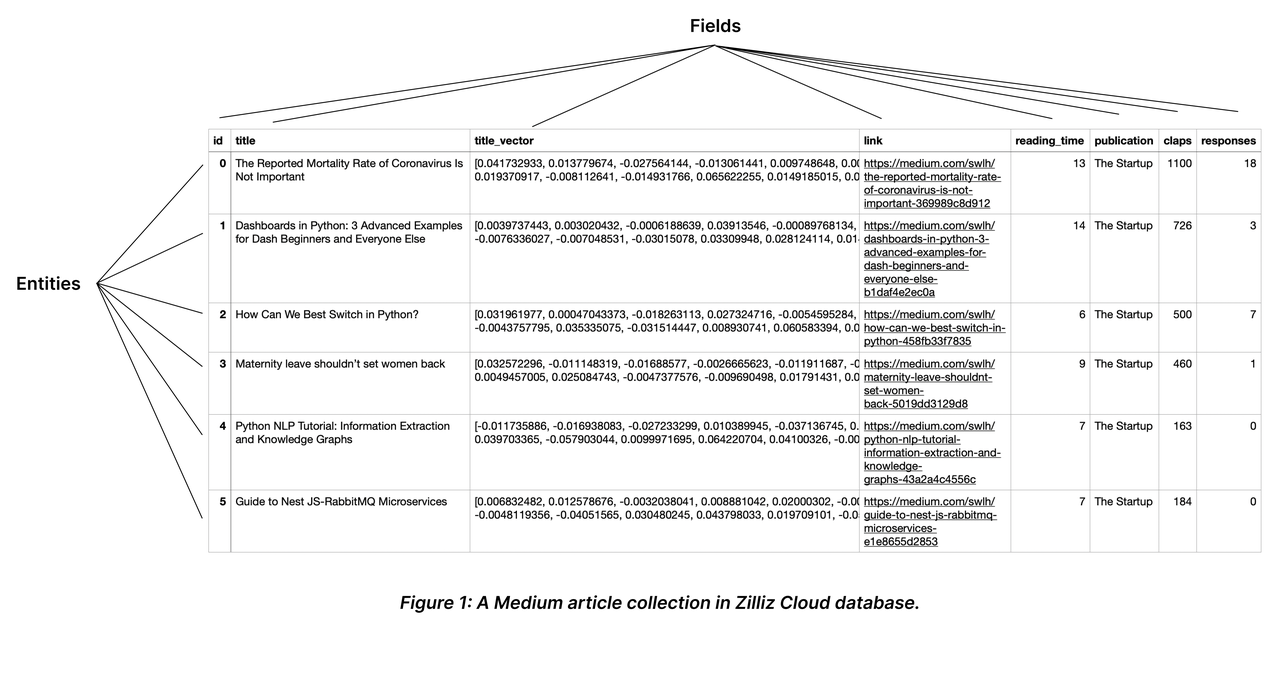
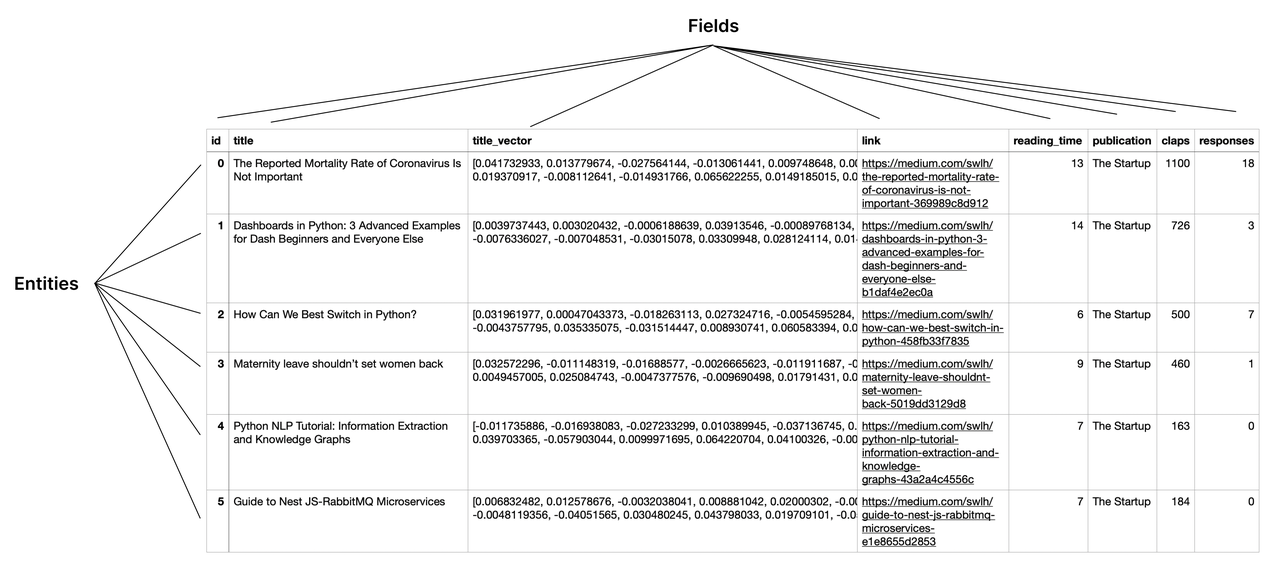
fixed tests, forgot file

diff --git a/tests/vdb/test_load.py b/tests/vdb/test_load.py
@@ -1,19 +1,20 @@
 import sys
 sys.path.append("packages/vdb/load")
-import vdb
+import vdb, time
 
 def test_vdb():
     args = {}
 
     db = vdb.VectorDB(args)
+    db.setup(drop=True)
     assert len(db.embed("hello world")) == 1024
 
-    db.setup(drop=True)
     assert len(db.vector_search("hello")) == 0
     
-    res = db.insert("Hello world")
+    db.insert("Hello world")
     db.insert("This is a test")
     db.insert("This is another test")
+    time.sleep(1)
 
     test = db.vector_search("test")
     assert len(test) == 3
@@ -23,11 +24,6 @@ def test_vdb():
     assert hello[0][1].find("Hello") != -1
 
     assert db.remove_by_substring("test") == 2
-
-
-
-
-
     
 
 

diff --git a/lessons/6-vdb.md b/lessons/6-vdb.md
@@ -43,14 +43,13 @@ html: true
 
 - Milvus is a No-SQL database optimized for **vector searches**
 
-- Multiple **databases**, each database has multiple **collections**
-
-- Each collection has a **schema** and **indexes**
-
-- Vector Search:
   - finding **similarities** in a dataset looking at their **numeric representation**
 
   - text is transformed in a numeric representatino using an **embedding model** then stored
+
+- Multiple **databases**, each database has multiple **collections**
+
+- Each collection has a **schema** and **indexes**
 
 ---
 
@@ -73,7 +72,7 @@ client.drop_collection("test")
 
 ---
 ## Collections
-![bg 85%](6-vdb/collection-explained.png)
+![bg 80%](6-vdb/collection-explained.png)
 
 ---
 
@@ -161,7 +160,8 @@ out = res.get('embedding', [])
 # VectorDB with embedding
 - Using the `VectorDB` class
 ```python
-sys.path.append("packages/vdb/load")
+!code packages/vdb/load/vdb.py
+import sys ; sys.path.append("packages/vdb/load")
 import vdb
 db = vdb.VectorDB({})
 ```
